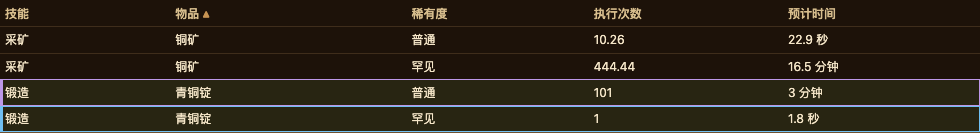
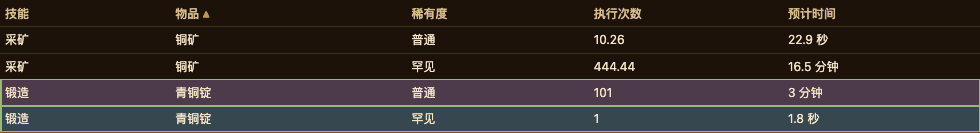
调整执行动作材料判定与状态高亮样式

diff --git a/src/workspace.js b/src/workspace.js
@@ -57,8 +57,8 @@ export function removeCompleted(workspace){
  if(!workspace.autoRemove||!workspace.character.initialized)return;
  for(const order of workspace.orders)order.lines=order.lines.filter(l=>l.kind!=='collection'||!collectionTarget(workspace.character,l.itemId,l.target).complete);
 }
-function summarizeExecutionActions(entries,rows,canAssess,planReady){
- const groups=new Map();
+function summarizeExecutionActions(entries,rows,canAssess){
+ const groups=new Map(),stockById=new Map(rows.map(row=>[row.id,row]));
  const increment=(row,field,value)=>{if(row[field]===null)return;try{row[field]=add(row[field],value);}catch(error){row[field]=null;row.issues.add(error.message);}};
  for(const entry of entries){
   if(entry.status==='complete')continue;
@@ -73,7 +73,20 @@ function summarizeExecutionActions(entries,rows,canAssess,planReady){
   if(entry.status!=='ok')row.issues.add(entry.status);
   else for(const [id,qty]of Object.entries(entry.materials)){try{row.materials[id]=add(row.materials[id]??0,qty);}catch(error){row.issues.add(error.message);}}
  }
- return [...groups.values()].map(row=>{let count=null;if(row.craftCount!==null&&row.collectionAttempts!==null){try{count=add(row.craftCount,row.collectionAttempts);}catch(error){row.issues.add(error.message);}}return {key:row.key,jobId:row.jobId,tier:row.tier,craftCount:row.craftCount,collectionAttempts:row.collectionAttempts,count,seconds:row.timeUnknown?null:row.seconds,materialStatus:canAssess&&row.issues.size===0&&Object.keys(row.materials).length>0&&Object.entries(row.materials).every(([id,qty])=>{const stock=rows.find(r=>r.id===Number(id));return stock?.owned!==null&&stock?.owned>=Math.ceil(qty);})?(planReady?'ready':'shared'):null,issues:[...row.issues]};}).sort((a,b)=>String(a.jobId).localeCompare(String(b.jobId),undefined,{numeric:true})||a.tier-b.tier);
+ return [...groups.values()].map(row=>{
+  let count=null;
+  if(row.craftCount!==null&&row.collectionAttempts!==null)try{count=add(row.craftCount,row.collectionAttempts);}catch(error){row.issues.add(error.message);}
+  const materials=Object.entries(row.materials);
+  const sufficient=canAssess&&row.issues.size===0&&materials.length>0&&materials.every(([id,qty])=>{
+   const stock=stockById.get(Number(id));
+   return stock?.owned!=null&&stock.owned>=Math.ceil(qty);
+  });
+  const materialStatus=sufficient?(materials.every(([id])=>{
+   const stock=stockById.get(Number(id));
+   return stock.owned>=stock.required;
+  })?'ready':'shared'):null;
+  return {key:row.key,jobId:row.jobId,tier:row.tier,craftCount:row.craftCount,collectionAttempts:row.collectionAttempts,count,seconds:row.timeUnknown?null:row.seconds,materialStatus,issues:[...row.issues]};
+ }).sort((a,b)=>String(a.jobId).localeCompare(String(b.jobId),undefined,{numeric:true})||a.tier-b.tier);
 }
 export function estimateOrders(workspace,prices,now=Date.now()){
  const state=workspace.character,players=collectionPlayers(state,now),selected=workspace.orders.filter(o=>o.enabled),materials=new Map(),seen=new Set(),conflicts=new Set();
@@ -121,7 +134,7 @@ export function estimateOrders(workspace,prices,now=Date.now()){
   if(cost!==null)subtotal=add(subtotal,cost);
   return {id,required,owned,purchase,price:quote.price,cost};
  });
- return {entries,orders,rows,actions:summarizeExecutionActions(entries,rows,blocked===0&&!unknownInventory,rows.every(r=>r.purchase===0)),blocked,conflicts:[...conflicts],points:blocked?null:points,craftSeconds:entries.some(e=>e.kind==='craft'&&e.status!=='ok')?null:craftSeconds,collectionSeconds:entries.some(e=>e.kind==='collection'&&!['ok','complete'].includes(e.status))?null:collectionSeconds,missingPrices,unknownInventory,subtotal,total:blocked||missingPrices||unknownInventory?null:subtotal};
+ return {entries,orders,rows,actions:summarizeExecutionActions(entries,rows,blocked===0&&!unknownInventory),blocked,conflicts:[...conflicts],points:blocked?null:points,craftSeconds:entries.some(e=>e.kind==='craft'&&e.status!=='ok')?null:craftSeconds,collectionSeconds:entries.some(e=>e.kind==='collection'&&!['ok','complete'].includes(e.status))?null:collectionSeconds,missingPrices,unknownInventory,subtotal,total:blocked||missingPrices||unknownInventory?null:subtotal};
 }
 export function exportOrder(order){return {format:'deepveinidle-buddy-order',version:1,order:validateOrders([order])[0]};}
 export async function exportOrderText(order){return encodePlanPayload(exportOrder(order));}

diff --git a/src/app.js b/src/app.js
@@ -88,7 +88,7 @@ export async function mountPanel(root,{platform,css,storageKey='dvi-buddy-demo-v
   return `<div class="scroll"><table id="execution-actions"><thead><tr>${sortHeader('actions','skill',text('技能','Skill'))}${sortHeader('actions','item',text('物品','Item'))}${sortHeader('actions','rarity',text('稀有度','Rarity'))}${sortHeader('actions','count',text('执行次数','Attempts'))}${sortHeader('actions','seconds',text('预计时间','Expected time'))}${debug?.enabled?`<th>${text('操作','Actions')}</th>`:''}</tr></thead><tbody>${sortedItems(actions,'actions',row=>outputId(craftingJobs.find(j=>j.id===row.jobId)??game.recipes.find(j=>j.id===row.jobId),row.tier)).map(row=>{const job=craftingJobs.find(j=>j.id===row.jobId)??game.recipes.find(j=>j.id===row.jobId),output=job.upgrade?game.upgradeResult(job.upgrade,game.withRarity(job.upgrade.from[0],row.tier)):game.recipeOutput(job,row.tier);const progress=executionStatus(executionState,job,row.tier),labels=[];
  if(progress.running)labels.push(text('正在执行（含移动、回仓阶段）','Running (including travel and banking)'));
  if(progress.queued)labels.push(text('已加入队列','Queued')+(progress.best?text('（优先高品质，不锁定稀有度）',' (best first; rarity is not fixed)'):'')+(progress.held?text('（队列已暂停）',' (queue paused)'):''));
- if(row.materialStatus)labels.push(row.materialStatus==='ready'?text('材料已备齐','Materials ready'):text('当前动作材料已满足；计划材料未备齐，可能导致其他动作材料不足','Materials available for this action; plan materials are incomplete and other actions may run short'));
+ if(row.materialStatus)labels.push(row.materialStatus==='ready'?text('材料已备齐','Materials ready'):text('当前动作材料已满足；相关材料未达到计划总需求，可能导致其他动作材料不足','Materials available for this action; shared inputs are below total plan requirements and other actions may run short'));
  return `<tr data-item-id="${output}" data-execution-action="${esc(row.key)}" class="${[row.materialStatus==='ready'?'ready':row.materialStatus==='shared'?'materials-shared':'',progress.running?'running':'',progress.queued?'queued':''].filter(Boolean).join(' ')}"${labels.length?` title="${esc(labels.join(' · '))}"`:''}><td>${esc(skillName(job.skill))}</td><td class="text-cell">${esc(item(game.baseItemId(output)))}${row.issues.length?`<small class="alert">${esc(row.issues.map(message).join(' · '))}</small>`:''}</td><td>${tiers()[row.tier]}</td><td>${number(row.count)}</td><td>${duration(row.seconds)}</td>${debug?.enabled?`<td>${button('prefill-action',text('执行','Execute'),`class="compact" data-key="${esc(row.key)}" ${!prefillEnabled()||job.upgrade||row.issues.length||row.count===null||row.count<=0?'disabled':''} title="${esc(job.upgrade?text('升级配方暂不支持预填','Upgrade prefill is not supported'):text('仅预填，不启动；收藏次数为期望向上取整','Prefill only; does not start. Collection attempts are rounded up.'))}"`)}</td>`:''}</tr>`;}).join('')||`<tr><td colspan="${debug?.enabled?6:5}" class="muted">${text('暂无执行动作','No planned actions')}</td></tr>`}</tbody></table></div>`;
  }
  function execution(){

diff --git a/src/theme.css b/src/theme.css
@@ -76,14 +76,12 @@ table input[type=number] { width:68px; min-height:26px; padding:2px 5px; }
 .sort-header { background:transparent; color:inherit; box-shadow:none; padding:0; font-weight:inherit; white-space:nowrap; }
 .sort-arrow { display:inline-block; margin-left:3px; font-size:10px; color:var(--edge); }
 .sort-arrow:empty { display:none; }
-#execution-actions tr.ready { background:#54733a30; }
+#execution-actions tr.ready { outline:1px solid #9ab67a; outline-offset:-1px; }
 #execution-actions tr.ready td:first-child { box-shadow:inset 2px 0 #9ab67a; }
-#execution-actions tr.materials-shared { background:#a47a2530; }
-#execution-actions tr.materials-shared td:first-child { box-shadow:inset 2px 0 #e0bb65; }
-#execution-actions tr.queued {outline:1px solid #70bff2;outline-offset:-1px;}
-#execution-actions tr.queued td:first-child {box-shadow:inset 3px 0 #70bff2;}
-#execution-actions tr.running {outline:1px solid #bd98e8;outline-offset:-1px;}
-#execution-actions tr.running td:first-child {box-shadow:inset 3px 0 #bd98e8;}
+#execution-actions tr.materials-shared { outline:1px solid #ffd474; outline-offset:-1px; }
+#execution-actions tr.materials-shared td:first-child { box-shadow:inset 2px 0 #ffd474; }
+#execution-actions tr.queued { background:#70bff24d; }
+#execution-actions tr.running { background:#bd98e84d; }
 #order-list>tbody>tr[data-order-row] { cursor:pointer; }
 .order-details { display:grid; gap:7px; padding:5px 3px; }
 .order-detail-row>td { padding:4px 6px; background:#1a100955; }

diff --git a/reports/validation.md b/reports/validation.md
@@ -1,21 +1,17 @@
 # 当前验证
 
-日期：2026-10-23。开发版本0.1.0，未发布。本次范围为读取角色路线／队列并在执行动作表标记当前任务和排队任务；规则见[面板设计](../docs/panel.md)。
+日期：2026-10-23。开发版本0.1.0，未发布。本次按各动作涉及材料的计划总需求判定备齐状态，排除无关材料缺口影响；材料状态使用绿／黄边框，当前执行／已入队使用紫／蓝底色。两类样式独立共存，同时执行和排队时紫色底色优先；任务匹配规则不变，见[面板设计](../docs/panel.md)。
 
 | 检查 | 本次结果 | 证据 |
 | --- | --- | --- |
-| 构建 | 通过，userscript 919067字节 | dist/manifest.json |
-| capture / game-sync / execution-status / storage | 26项通过 | [日志](validation/execution-status-unit.log) |
+| 构建 | 通过，userscript 919137字节 | dist/manifest.json |
+| workspace 单元 | 36项通过 | [日志](validation/action-materials-unit.log) |
+| action-materials | 9项通过 | [日志](validation/action-materials.log) |
 | game-integration | 23项通过 | [日志](validation/game-integration.log) |
-| action-materials | 7项通过 | [日志](validation/action-materials.log) |
-| browser | 44项通过 | [日志](validation/browser.log) |
-| 浏览器专项合计 | 3场景、74项通过 | [摘要](validation/summary.json) |
-| 静态检查 | 文档链接、源文件语法、构建元数据与摘要、无生成引擎修改、差异空白通过 | [日志](validation/static.log) |
+| 浏览器专项 | 2场景、32项通过 | [摘要](validation/summary.json) |
+| 显示效果 | 已检查黄色材料边框及紫／蓝底色与绿色材料边框叠加 | [材料截图](screenshots/materials-shared.png)、[任务截图](screenshots/execution-status.png) |
+| 静态检查 | 文档链接、脚本语法、构建元数据与摘要及差异空白通过 | [日志](validation/static.log) |
 
-覆盖服务端／客户端任务字段裁剪、无敏感附加字段或可变游戏对象引用、固定稀有度制造匹配、采集按配方匹配、优先高品质队列、紫色当前任务优先、队列暂停、任务清空、非法结构及恢复。队列与路线变化不依赖角色其他数据变动即可在1秒内更新，游戏任务不进入角色存档，也不改变计划数量／金额／时间；输入法期间保持输入节点并刷新任务标记，旧服务器快照回退清除实时高亮。
+浏览器回归绿／黄边框、无高亮、超额库存、无关材料缺口、双语提示、窄屏滚动，以及运行／队列底色优先级、材料边框共存与实时状态更新。提交前重跑36项订单计算单元检查，覆盖相关材料总需求、超额库存、多材料竞争及库存不足；浏览器检查与截图沿用本次实现后的实际验证结果。
 
-材料高亮与执行状态共存截图见[执行动作表](screenshots/execution-status.png)，来自隔离客户端夹具，已检查紫色正在执行／蓝色已排队边框和绿色材料底色同时显示。悬停中英文状态及材料提示通过检查。最终颜色调整后重跑game-integration并更新截图，代码整理后重跑上述单元；action-materials与browser为本次实施阶段实际检查，没有声称重复运行。
-
[1 lines of base64/hex data omitted]
-
-此前真实Chrome接入证据见[接入验收](game-integration-validation.md)，不作为本轮重跑结果。
[1 lines of base64/hex data omitted]

diff --git a/docs/status.md b/docs/status.md
@@ -10,11 +10,11 @@
 
 按游戏单页面运行，存储使用写入前revision检查、串行保存及坏存档保护。当前脚本仅声明5项grant，无跨页面存储监听或替代轮询。
 
-执行动作通过紫／蓝边框标记当前任务／队列匹配，保留绿／黄材料底色。制造按配方和稀有度匹配，采集及优先高品质队列按配方匹配；悬停说明匹配范围。任务状态仅保留内存，不进入订单或角色存档；断连、回退旧快照和角色变化时清除实时标记。
+执行动作通过紫／蓝底色标记当前任务／队列匹配。绿色边框表示该动作涉及的每种材料库存均达到或超过该材料的计划总需求；黄色边框表示够本动作，但至少一种相关材料仍低于总需求，无关材料缺口不影响该动作颜色。制造按配方和稀有度匹配，采集及优先高品质队列按配方匹配；悬停说明匹配范围。任务状态仅保留内存，不进入订单或角色存档；断连、回退旧快照和角色变化时清除实时标记。
 
 ## 验证
 
-本次新增任务状态只读同步及执行动作高亮；26项相关单元检查、3个场景74项浏览器检查通过。队列／路线变化单独触发刷新，测量延迟小于1秒。构建、截图和验证边界见[当前验证](../reports/validation.md)。
+本次材料备齐按该动作涉及材料的计划总需求判断，无关材料缺口不影响该动作；材料状态使用绿／黄边框，当前任务与队列使用紫／蓝底色。36项订单计算单元检查、2场景共32项浏览器检查通过，已检查材料边框及任务底色叠加截图。构建、截图和验证边界见[当前验证](../reports/validation.md)。
 
 此前实时同步与菜单预填的真实Chrome核验及来源比较见[接入验收](../reports/game-integration-validation.md)。该核验使用临时预览，没有安装或更新脚本管理器中的脚本，不代替ScriptCat／Tampermonkey权限与沙箱验收。
 
